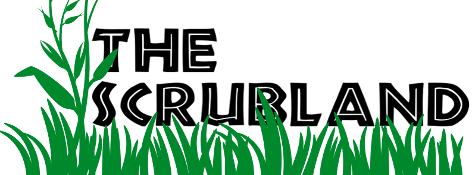
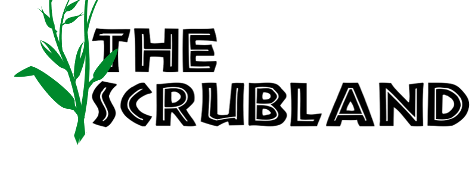
finished header

Changed region(s): [[0.0, 0.5143, 0.9726, 1.0]]

diff --git a/app/assets/stylesheets/application.css b/app/assets/stylesheets/application.css
@@ -16,3 +16,11 @@
 body {
 	background-image: url('skulls.png');
 }
+
+body > h1 {
+	background-image: url('grasses.png'), url('scrubland.png');
+	background-repeat: repeat, no-repeat;
+	border-bottom: 4px solid #00882c;
+	height: 175px;
+	margin: 0;
+}
